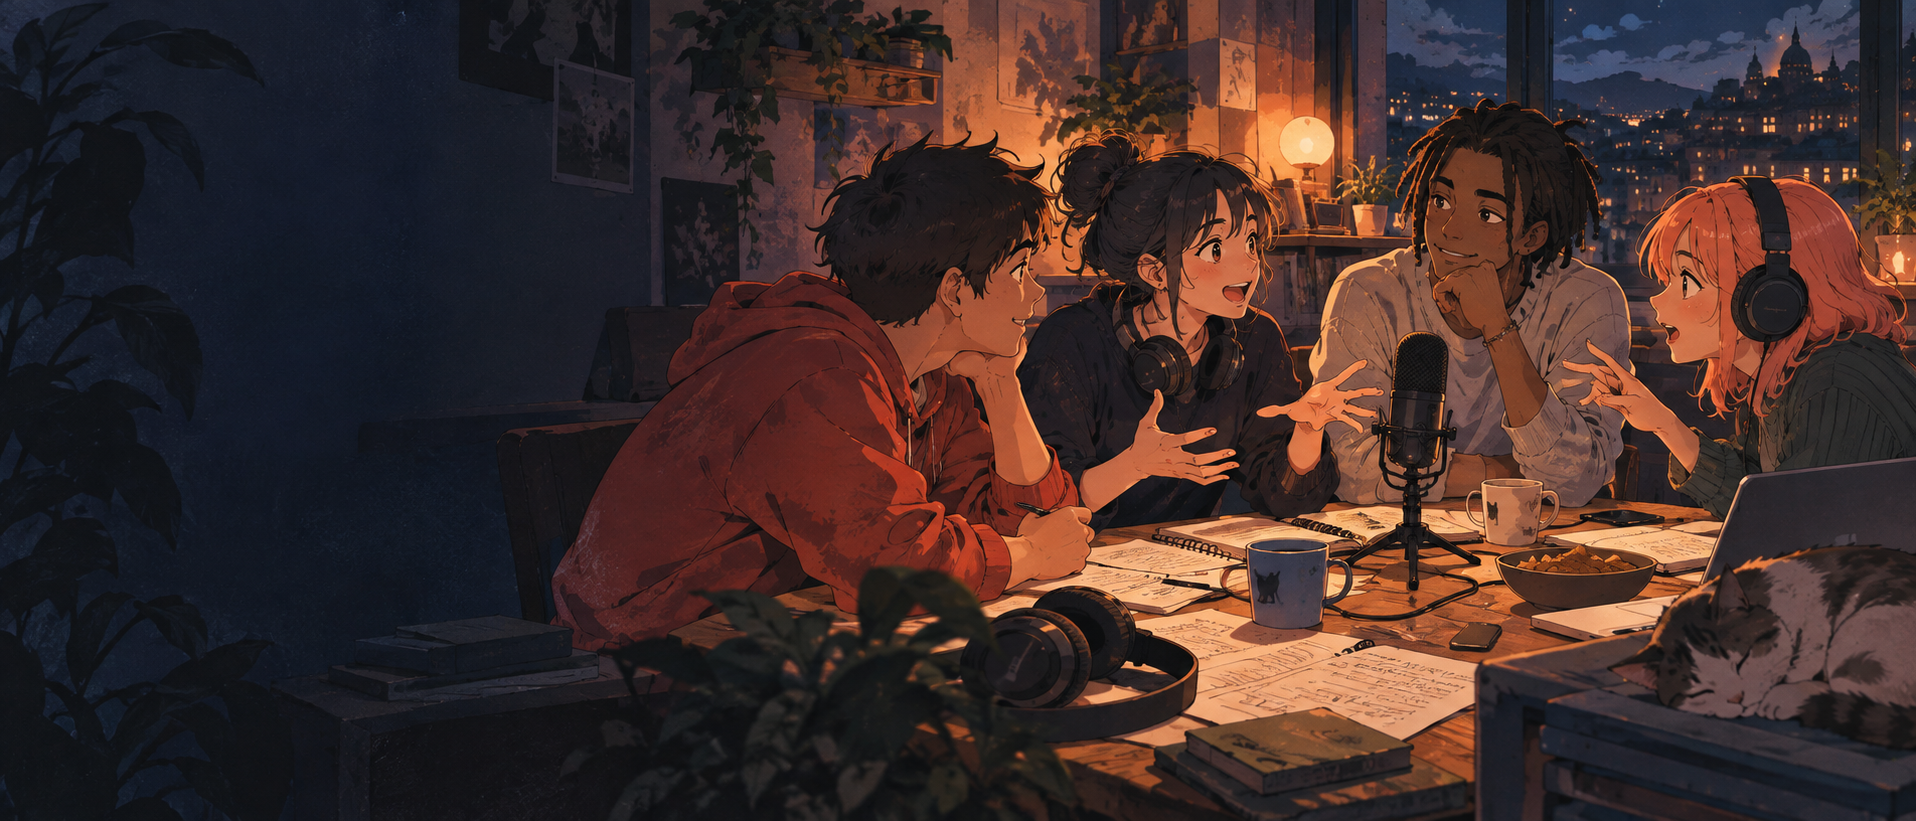
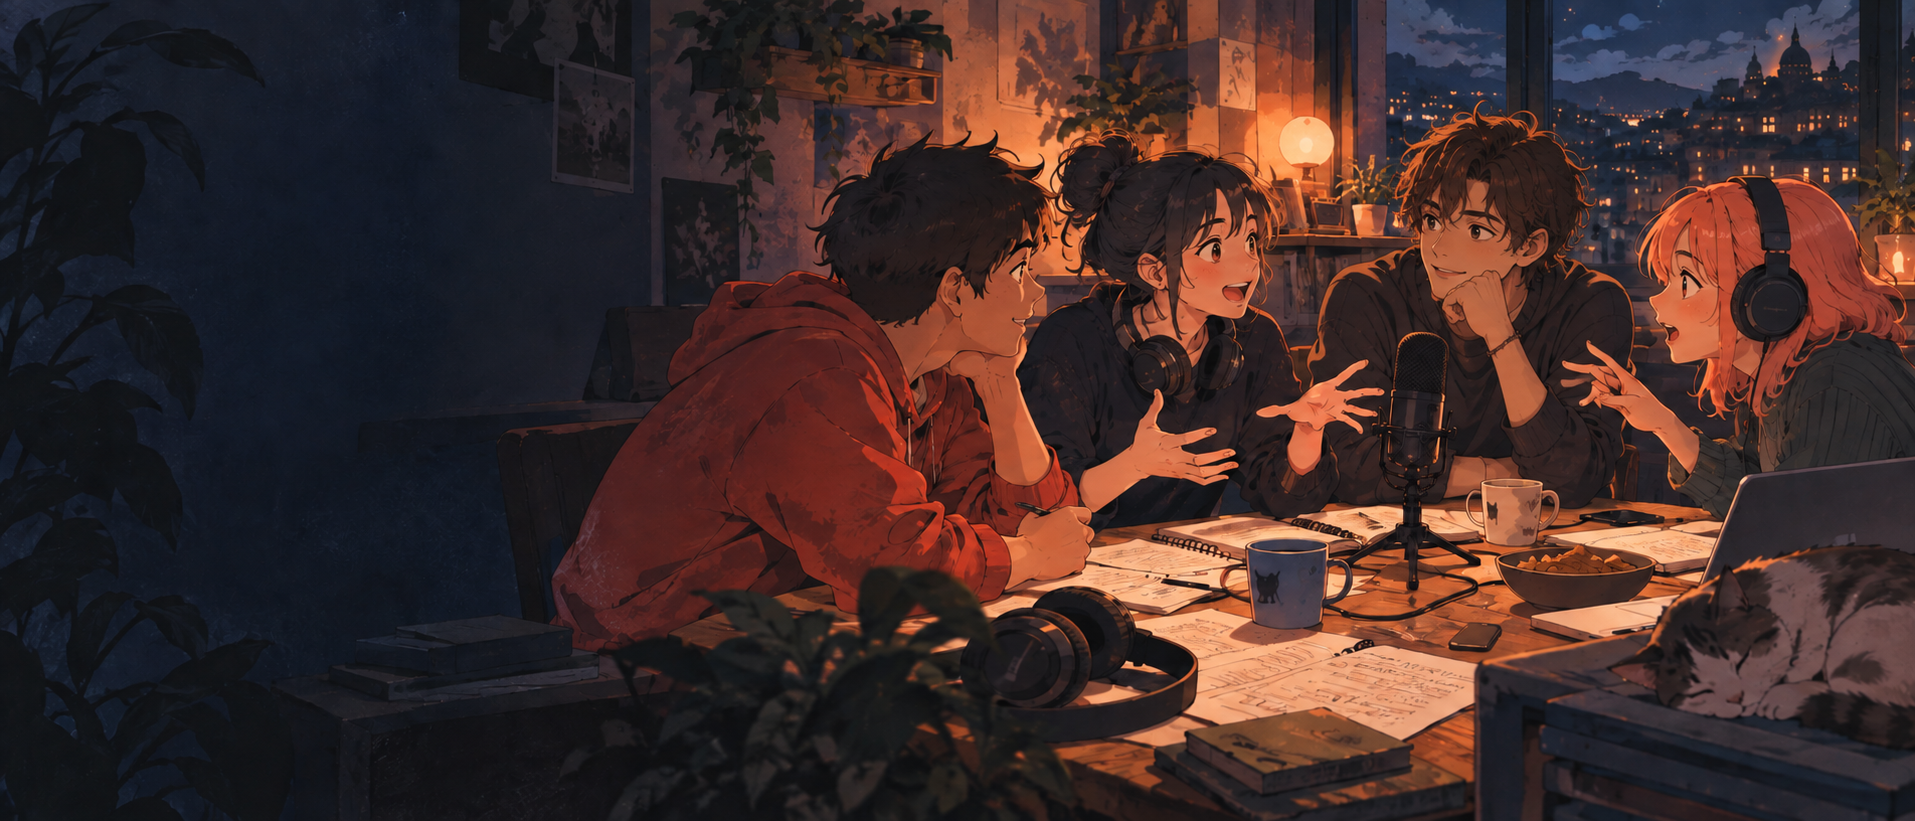
fix: rename and image corrections

diff --git a/index.html b/index.html
@@ -4,8 +4,8 @@
     <meta charset="UTF-8" />
     <meta name="viewport" content="width=device-width, initial-scale=1.0" />
     <meta name="theme-color" content="#151820" />
-    <meta name="description" content="KADR is an anime debate club for people who love to watch closely, argue kindly, and create together. Explore discussions, voice-over sessions, screenings, and more." />
-    <title>KADR — Anime Debate Club</title>
+    <meta name="description" content="Anime Debate is a club for fans who love to watch closely, argue kindly, and connect over great stories. Explore discussions and group screenings." />
+    <title>Anime Debate — Anime Discussion Club</title>
     <link rel="icon" type="image/svg+xml" href="assets/favicon.svg" />
     <link rel="preconnect" href="https://fonts.googleapis.com" />
     <link rel="preconnect" href="https://fonts.gstatic.com" crossorigin />
@@ -17,15 +17,15 @@
     <a class="skip-link" href="#main">Skip to content</a>
     <div class="site-shell">
       <header class="site-header" id="top">
-        <a class="brand" href="#top" aria-label="KADR, back to top"><span class="brand-mark">K<span class="brand-dot">.</span></span><span class="brand-copy">KADR<span>ANIME DEBATE CLUB</span></span></a>
+        <a class="brand" href="#top" aria-label="Anime Debate, back to top"><span class="brand-mark">A<span class="brand-dot">.</span></span><span class="brand-copy">ANIME DEBATE<span>WATCH · DISCUSS · CONNECT</span></span></a>
         <nav class="desktop-nav" aria-label="Main navigation">
           <a href="#about">The club</a><a href="#events">What we do</a><a href="#how">How it works</a><a href="#faq">FAQ</a>
         </nav>
-        <a class="header-cta" href="#join">Come hang out <span aria-hidden="true">↗</span></a>
+        <a class="header-cta" href="https://t.me/animedebating" target="_blank" rel="noopener noreferrer">Join our channel <span aria-hidden="true">↗</span></a>
         <button class="menu-toggle" type="button" aria-label="Open menu" aria-controls="mobile-menu" aria-expanded="false"><span></span><span></span></button>
       </header>
       <nav class="mobile-menu" id="mobile-menu" aria-label="Mobile navigation" hidden>
-        <a href="#about">The club</a><a href="#events">What we do</a><a href="#how">How it works</a><a href="#faq">FAQ</a><a href="#join">Come hang out ↗</a>
+        <a href="#about">The club</a><a href="#events">What we do</a><a href="#how">How it works</a><a href="#faq">FAQ</a><a href="https://t.me/animedebating" target="_blank" rel="noopener noreferrer">Join our channel ↗</a>
       </nav>
 
       <main id="main">
@@ -36,8 +36,8 @@
           <div class="hero-content">
             <p class="eyebrow hero-eyebrow reveal">FOR THE SCENE REWATCHERS &amp; END-CREDIT STAYERS</p>
             <h1 id="hero-title" class="reveal">WATCH IT.<br /><em>QUESTION</em> IT.<br />LIVE IT<span class="punctuation">.</span></h1>
-            <p class="hero-description reveal">A club where anime gets the conversation it deserves. Debate the details, step behind the mic, and meet people who get why that one scene still lives in your head.</p>
-            <div class="hero-actions reveal"><a class="button button-primary" href="#events">Explore the club <span aria-hidden="true">↗</span></a><a class="text-link" href="#about">What is KADR? <span aria-hidden="true">↓</span></a></div>
+            <p class="hero-description reveal">A club where anime gets the conversation it deserves. Debate the details, watch together, and meet people who get why that one scene still lives in your head.</p>
+            <div class="hero-actions reveal"><a class="button button-primary" href="#events">Explore the club <span aria-hidden="true">↗</span></a><a class="text-link" href="#about">What is Anime Debate? <span aria-hidden="true">↓</span></a></div>
           </div>
           <div class="hero-bottom"><span>01 / A NEW KIND OF FAN SPACE</span><span class="scroll-cue">SCROLL TO EXPLORE <span aria-hidden="true">↓</span></span></div>
           <div class="hero-corner" aria-hidden="true">好<br />奇<br />心</div>
@@ -49,35 +49,34 @@
           <div class="section-meta reveal"><span>01 / THE CLUB</span><span>MORE THAN A WATCH PARTY</span></div>
           <div class="intro-grid">
             <div class="intro-heading reveal"><span class="asterisk" aria-hidden="true">✳</span><h2 id="intro-title">The story ends.<br /><em>We keep talking.</em></h2></div>
-            <div class="intro-copy reveal"><p>There’s always that moment after an episode when you need to talk about it with someone. The character choice. The animation. The ending you saw coming—or absolutely didn’t.</p><p>KADR turns that energy into a place to belong. We bring anime fans together for thoughtful debates, creative voice-over sessions, group screenings, and the kind of conversations that outlast the credits.</p><a class="underlined-link" href="#how">See how it works <span aria-hidden="true">↗</span></a></div>
+            <div class="intro-copy reveal"><p>There’s always that moment after an episode when you need to talk about it with someone. The character choice. The animation. The ending you saw coming—or absolutely didn’t.</p><p>Anime Debate turns that energy into a place to belong. We bring anime fans together for thoughtful debates, group screenings, and the kind of conversations that outlast the credits.</p><a class="underlined-link" href="#how">See how it works <span aria-hidden="true">↗</span></a></div>
           </div>
           <div class="principles" aria-label="Our approach"><div class="principle reveal"><span>01</span><strong>WATCH<br />CLOSER</strong><i aria-hidden="true">↗</i></div><div class="principle reveal"><span>02</span><strong>THINK<br />LOUDER</strong><i aria-hidden="true">↗</i></div><div class="principle reveal"><span>03</span><strong>MAKE<br />MORE</strong><i aria-hidden="true">↗</i></div></div>
         </section>
 
         <section class="events section-pad" id="events" aria-labelledby="events-title">
           <div class="section-meta reveal"><span>02 / THE LINEUP</span><span>FIND YOUR FORMAT</span></div>
-          <div class="events-heading reveal"><div><p class="eyebrow dark-eyebrow">COME FOR THE ANIME. STAY FOR THE PEOPLE.</p><h2 id="events-title">Pick your<br /><em>next obsession.</em></h2></div><p>Every format is an invitation to take part. Bring a theory, a voice, a sketchbook, or just your curiosity.</p></div>
+          <div class="events-heading reveal"><div><p class="eyebrow dark-eyebrow">COME FOR THE ANIME. STAY FOR THE PEOPLE.</p><h2 id="events-title">Pick your<br /><em>next obsession.</em></h2></div><p>Every format is an invitation to take part. Bring a theory, a question, or just your curiosity.</p></div>
           <div class="event-grid">
-            <article class="event-card event-feature reveal" data-category="create"><div class="event-image"><img src="assets/voiceover.png" alt="Illustrated voice actor recording dialogue into a microphone" loading="lazy" /><span class="event-image-index">01 / CREATE</span></div><div class="event-body"><div class="event-body-top"><span class="event-tag">ON THE MIC</span><span class="event-arrow" aria-hidden="true">↗</span></div><h3>Voice-over<br />studio</h3><p>Give a scene your own interpretation. Read, perform, direct, and discover how much a voice can change a story.</p><span class="event-footnote">NO EXPERIENCE NEEDED</span></div></article>
-            <article class="event-card reveal" data-category="talk"><div class="event-image"><img src="assets/club.png" alt="Illustrated anime fans in a spirited discussion" loading="lazy" /><span class="event-image-index">02 / DISCUSS</span></div><div class="event-body"><div class="event-body-top"><span class="event-tag">AT THE TABLE</span><span class="event-arrow" aria-hidden="true">↗</span></div><h3>Debate<br />nights</h3><p>Characters, plot twists, power systems, impossible choices. Bring your take and leave with a new one.</p><span class="event-footnote">DIFFERENT TAKES ENCOURAGED</span></div></article>
-            <article class="event-card reveal" data-category="watch"><div class="event-image image-watch"><img src="assets/hero.png" alt="Illustrated club members watching and sharing their thoughts" loading="lazy" /><span class="event-image-index">03 / WATCH</span></div><div class="event-body"><div class="event-body-top"><span class="event-tag">ON THE BIG SCREEN</span><span class="event-arrow" aria-hidden="true">↗</span></div><h3>Watch &amp;<br />unpack</h3><p>Watch together, then stay for the best part: the conversation afterward. First-timers welcome.</p><span class="event-footnote">STAY FOR THE CONVERSATION</span></div></article>
+            <article class="event-card reveal" data-category="talk"><div class="event-image"><img src="assets/club.png" alt="Illustrated anime fans in a spirited discussion" loading="lazy" /><span class="event-image-index">01 / DISCUSS</span></div><div class="event-body"><div class="event-body-top"><span class="event-tag">AT THE TABLE</span><span class="event-arrow" aria-hidden="true">↗</span></div><h3>Debate<br />nights</h3><p>Characters, plot twists, power systems, impossible choices. Bring your take and leave with a new one.</p><span class="event-footnote">DIFFERENT TAKES ENCOURAGED</span></div></article>
+            <article class="event-card reveal" data-category="watch"><div class="event-image image-watch"><img src="assets/hero.png" alt="Illustrated club members watching and sharing their thoughts" loading="lazy" /><span class="event-image-index">02 / WATCH</span></div><div class="event-body"><div class="event-body-top"><span class="event-tag">ON THE BIG SCREEN</span><span class="event-arrow" aria-hidden="true">↗</span></div><h3>Watch &amp;<br />unpack</h3><p>Watch together, then stay for the best part: the conversation afterward. First-timers welcome.</p><span class="event-footnote">STAY FOR THE CONVERSATION</span></div></article>
           </div>
-          <div class="events-note reveal"><span class="note-icon" aria-hidden="true">✳</span><p>And more in the works: fan art jams, character breakdowns, creator spotlights, and whatever we dream up together.</p><a href="#join">Get involved <span aria-hidden="true">↗</span></a></div>
+          <div class="events-note reveal"><span class="note-icon" aria-hidden="true">✳</span><p>And more in the works: fan art jams, character breakdowns, creator spotlights, and whatever we dream up together.</p><a href="https://t.me/animedebating" target="_blank" rel="noopener noreferrer">Join the channel <span aria-hidden="true">↗</span></a></div>
         </section>
 
         <section class="how section-pad" id="how" aria-labelledby="how-title">
           <div class="section-meta reveal"><span>03 / HOW IT WORKS</span><span>LOW PRESSURE. HIGH PASSION.</span></div>
-          <div class="how-grid"><div class="how-title reveal"><p class="eyebrow">YOUR SEAT IS WAITING</p><h2 id="how-title">No gatekeeping.<br /><em>Just good company.</em></h2><p>You don’t need an encyclopedic watchlist. You only need a story you care about and the willingness to hear someone else’s take.</p><div class="orbit-stamp" aria-hidden="true"><span>COME AS YOU ARE · STAY FOR THE STORY ·</span><b>✳</b></div></div><div class="steps"><div class="step reveal"><span class="step-number">01</span><div><h3>Find your thing</h3><p>Start with a format that sounds fun. Discussion, performance, or a shared screening—there’s more than one way in.</p></div><span class="step-symbol" aria-hidden="true">↗</span></div><div class="step reveal"><span class="step-number">02</span><div><h3>Show up as you are</h3><p>Listen first, jump into the conversation, or grab the mic. New fans and longtime fans belong at the same table.</p></div><span class="step-symbol" aria-hidden="true">↗</span></div><div class="step reveal"><span class="step-number">03</span><div><h3>Keep the story going</h3><p>Leave with a fresh perspective, a new friend, or the next idea we make together.</p></div><span class="step-symbol" aria-hidden="true">↗</span></div></div></div>
+          <div class="how-grid"><div class="how-title reveal"><p class="eyebrow">YOUR SEAT IS WAITING</p><h2 id="how-title">No gatekeeping.<br /><em>Just good company.</em></h2><p>You don’t need an encyclopedic watchlist. You only need a story you care about and the willingness to hear someone else’s take.</p><div class="orbit-stamp" aria-hidden="true"><span>COME AS YOU ARE · STAY FOR THE STORY ·</span><b>✳</b></div></div><div class="steps"><div class="step reveal"><span class="step-number">01</span><div><h3>Find your thing</h3><p>Start with a discussion or a shared screening—there’s more than one way in.</p></div><span class="step-symbol" aria-hidden="true">↗</span></div><div class="step reveal"><span class="step-number">02</span><div><h3>Show up as you are</h3><p>Listen first, jump into the conversation, or share your take. New fans and longtime fans belong at the same table.</p></div><span class="step-symbol" aria-hidden="true">↗</span></div><div class="step reveal"><span class="step-number">03</span><div><h3>Keep the story going</h3><p>Leave with a fresh perspective, a new friend, or the next idea we make together.</p></div><span class="step-symbol" aria-hidden="true">↗</span></div></div></div>
         </section>
 
-        <section class="manifesto" aria-labelledby="manifesto-title"><div class="manifesto-bg" aria-hidden="true">“</div><div class="manifesto-inner reveal"><span class="eyebrow">THE UNOFFICIAL CLUB RULE</span><h2 id="manifesto-title">Strong opinions.<br /><em>Soft landing.</em></h2><p>Challenge the idea, respect the person. Give spoilers a heads-up. Let everyone finish their sentence. The best debates make room for everyone.</p><span class="manifesto-sign">KADR / THE CLUB CODE</span></div><div class="waveform" aria-hidden="true"><i></i><i></i><i></i><i></i><i></i><i></i><i></i><i></i><i></i><i></i><i></i><i></i><i></i><i></i><i></i><i></i><i></i><i></i><i></i><i></i><i></i></div></section>
+        <section class="manifesto" aria-labelledby="manifesto-title"><div class="manifesto-bg" aria-hidden="true">“</div><div class="manifesto-inner reveal"><span class="eyebrow">THE UNOFFICIAL CLUB RULE</span><h2 id="manifesto-title">Strong opinions.<br /><em>Soft landing.</em></h2><p>Challenge the idea, respect the person. Give spoilers a heads-up. Let everyone finish their sentence. The best debates make room for everyone.</p><span class="manifesto-sign">ANIME DEBATE / THE CLUB CODE</span></div><div class="waveform" aria-hidden="true"><i></i><i></i><i></i><i></i><i></i><i></i><i></i><i></i><i></i><i></i><i></i><i></i><i></i><i></i><i></i><i></i><i></i><i></i><i></i><i></i><i></i></div></section>
 
-        <section class="faq section-pad" id="faq" aria-labelledby="faq-title"><div class="section-meta reveal"><span>04 / GOOD TO KNOW</span><span>BEFORE YOU PULL UP A CHAIR</span></div><div class="faq-grid"><div class="reveal"><h2 id="faq-title">A few things<br /><em>you might ask.</em></h2><p>Still curious? That’s a good start.</p></div><div class="faq-list reveal"><details><summary>Do I need to know a lot about anime?<span aria-hidden="true">+</span></summary><p>Not at all. Whether you’re on your first series or your fiftieth, curiosity matters more than a completed watchlist.</p></details><details><summary>Do I have to speak in a debate?<span aria-hidden="true">+</span></summary><p>No. Listening is participating. Join the conversation whenever you feel ready; there’s no pressure to perform.</p></details><details><summary>Are voice-over sessions beginner friendly?<span aria-hidden="true">+</span></summary><p>Absolutely. Try a line, help direct a scene, or just watch the process. No recording background is required.</p></details><details><summary>Will there be spoilers?<span aria-hidden="true">+</span></summary><p>We label spoiler-heavy conversations and give a warning before discussing major plot points so everyone can choose what to join.</p></details></div></div></section>
+        <section class="faq section-pad" id="faq" aria-labelledby="faq-title"><div class="section-meta reveal"><span>04 / GOOD TO KNOW</span><span>BEFORE YOU PULL UP A CHAIR</span></div><div class="faq-grid"><div class="reveal"><h2 id="faq-title">A few things<br /><em>you might ask.</em></h2><p>Still curious? That’s a good start.</p></div><div class="faq-list reveal"><details><summary>Do I need to know a lot about anime?<span aria-hidden="true">+</span></summary><p>Not at all. Whether you’re on your first series or your fiftieth, curiosity matters more than a completed watchlist.</p></details><details><summary>Do I have to speak in a debate?<span aria-hidden="true">+</span></summary><p>No. Listening is participating. Join the conversation whenever you feel ready; there’s no pressure to perform.</p></details><details><summary>How do I hear about events?<span aria-hidden="true">+</span></summary><p>Follow the <a href="https://t.me/animedebating" target="_blank" rel="noopener noreferrer">Anime Debate Telegram channel</a> for event announcements and updates.</p></details><details><summary>Will there be spoilers?<span aria-hidden="true">+</span></summary><p>We label spoiler-heavy conversations and give a warning before discussing major plot points so everyone can choose what to join.</p></details></div></div></section>
 
-        <section class="join" id="join" aria-labelledby="join-title"><div class="join-inner"><div class="join-top reveal"><span>05 / YOUR NEXT ARC STARTS HERE</span><span class="join-spark" aria-hidden="true">✳</span></div><h2 id="join-title" class="reveal">YOUR PEOPLE<br />ARE <em>HERE.</em></h2><div class="join-bottom reveal"><p>Bring the theory. Bring the friend who disagrees. Bring yourself. There’s room for you in the conversation.</p><a class="button button-dark" href="#events">Explore the formats <span aria-hidden="true">↗</span></a></div></div></section>
+        <section class="join" id="join" aria-labelledby="join-title"><div class="join-inner"><div class="join-top reveal"><span>05 / YOUR NEXT ARC STARTS HERE</span><span class="join-spark" aria-hidden="true">✳</span></div><h2 id="join-title" class="reveal">YOUR PEOPLE<br />ARE <em>HERE.</em></h2><div class="join-bottom reveal"><p>Bring the theory. Bring the friend who disagrees. Bring yourself. There is room for you in the conversation. Find event news in our Telegram channel.</p><a class="button button-dark" href="https://t.me/animedebating" target="_blank" rel="noopener noreferrer">Join our channel <span aria-hidden="true">↗</span></a></div></div></section>
       </main>
 
-      <footer class="footer"><div class="footer-top"><a class="footer-brand" href="#top">KADR<span>.</span></a><p>For the stories that stick with us<br />and the people we share them with.</p><a class="back-top" href="#top">BACK TO TOP ↑</a></div><div class="footer-bottom"><span>ANIME DEBATE CLUB</span><span>MADE FOR THE FANS WHO FEEL IT ALL</span><span>© <span id="year"></span> KADR</span></div></footer>
+      <footer class="footer"><div class="footer-top"><a class="footer-brand" href="#top">ANIME DEBATE<span>.</span></a><p>For the stories that stick with us<br />and the people we share them with.<br /><a class="footer-channel" href="https://t.me/animedebating" target="_blank" rel="noopener noreferrer">Our Telegram channel ↗</a></p><a class="back-top" href="#top">BACK TO TOP ↑</a></div><div class="footer-bottom"><span>ANIME DEBATE CLUB</span><span>MADE FOR THE FANS WHO FEEL IT ALL</span><span>© <span id="year"></span> ANIME DEBATE</span></div></footer>
     </div>
   </body>
 </html>

diff --git a/styles.css b/styles.css
@@ -53,3 +53,12 @@ img{display:block;width:100%}
 @media(max-width:1100px){.event-image,.event-feature .event-image{height:270px}.event-body,.event-feature .event-body{min-height:320px}.event-footnote{display:block}}
 @media(max-width:800px){.event-feature{grid-column:auto;display:flex}.event-feature .event-image{height:270px;min-height:0}.event-feature .event-body{min-height:320px}}
 @media(max-width:600px){.event-image,.event-feature .event-image{height:270px}.event-body,.event-feature .event-body{min-height:300px}}
+
+/* The current program has two formats, each with equal space. */
+.event-grid{grid-template-columns:repeat(2,minmax(0,1fr))}
+.footer-top{gap:4vw}
+.footer-brand{font-size:clamp(45px,6.2vw,88px);letter-spacing:-.09em;white-space:nowrap}
+.footer-channel{display:inline-block;margin-top:18px;color:var(--orange);border-bottom:1px solid currentColor;padding-bottom:4px;font-weight:700;font-size:12px}
+.faq details p a{color:#a74431;text-decoration:underline;text-underline-offset:3px}
+@media(max-width:800px){.footer-brand{font-size:clamp(40px,8vw,65px)}}
+@media(max-width:600px){.event-grid{grid-template-columns:1fr}.footer-brand{font-size:clamp(38px,10vw,54px);white-space:normal}.brand-copy span{font-size:7px;letter-spacing:.12em}}
